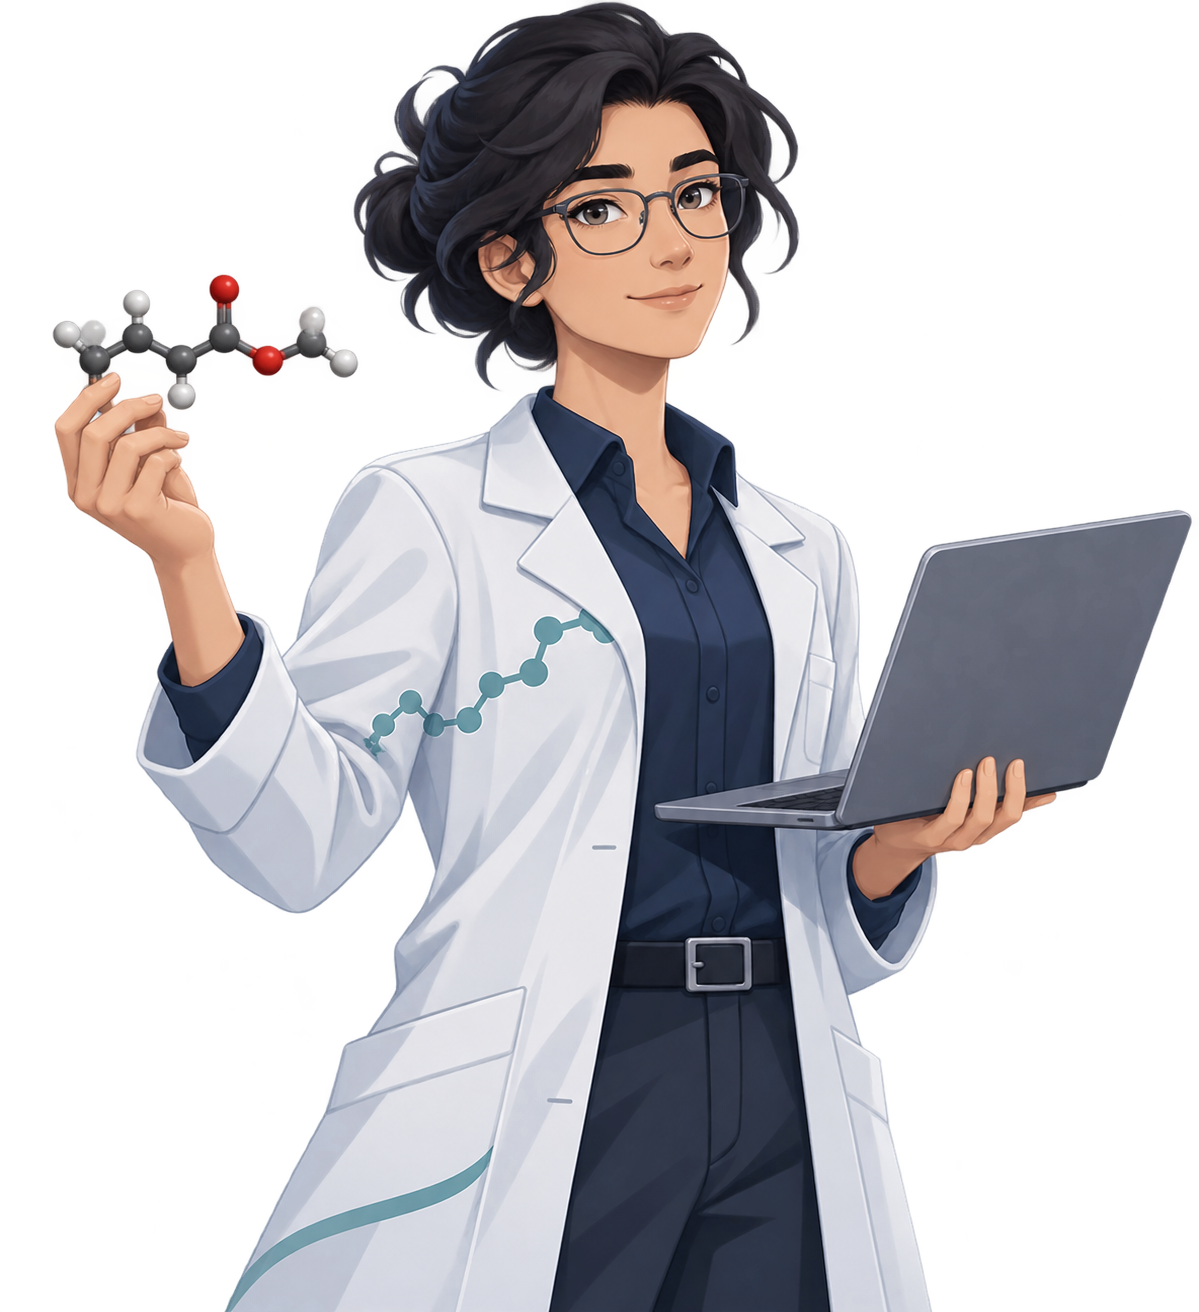
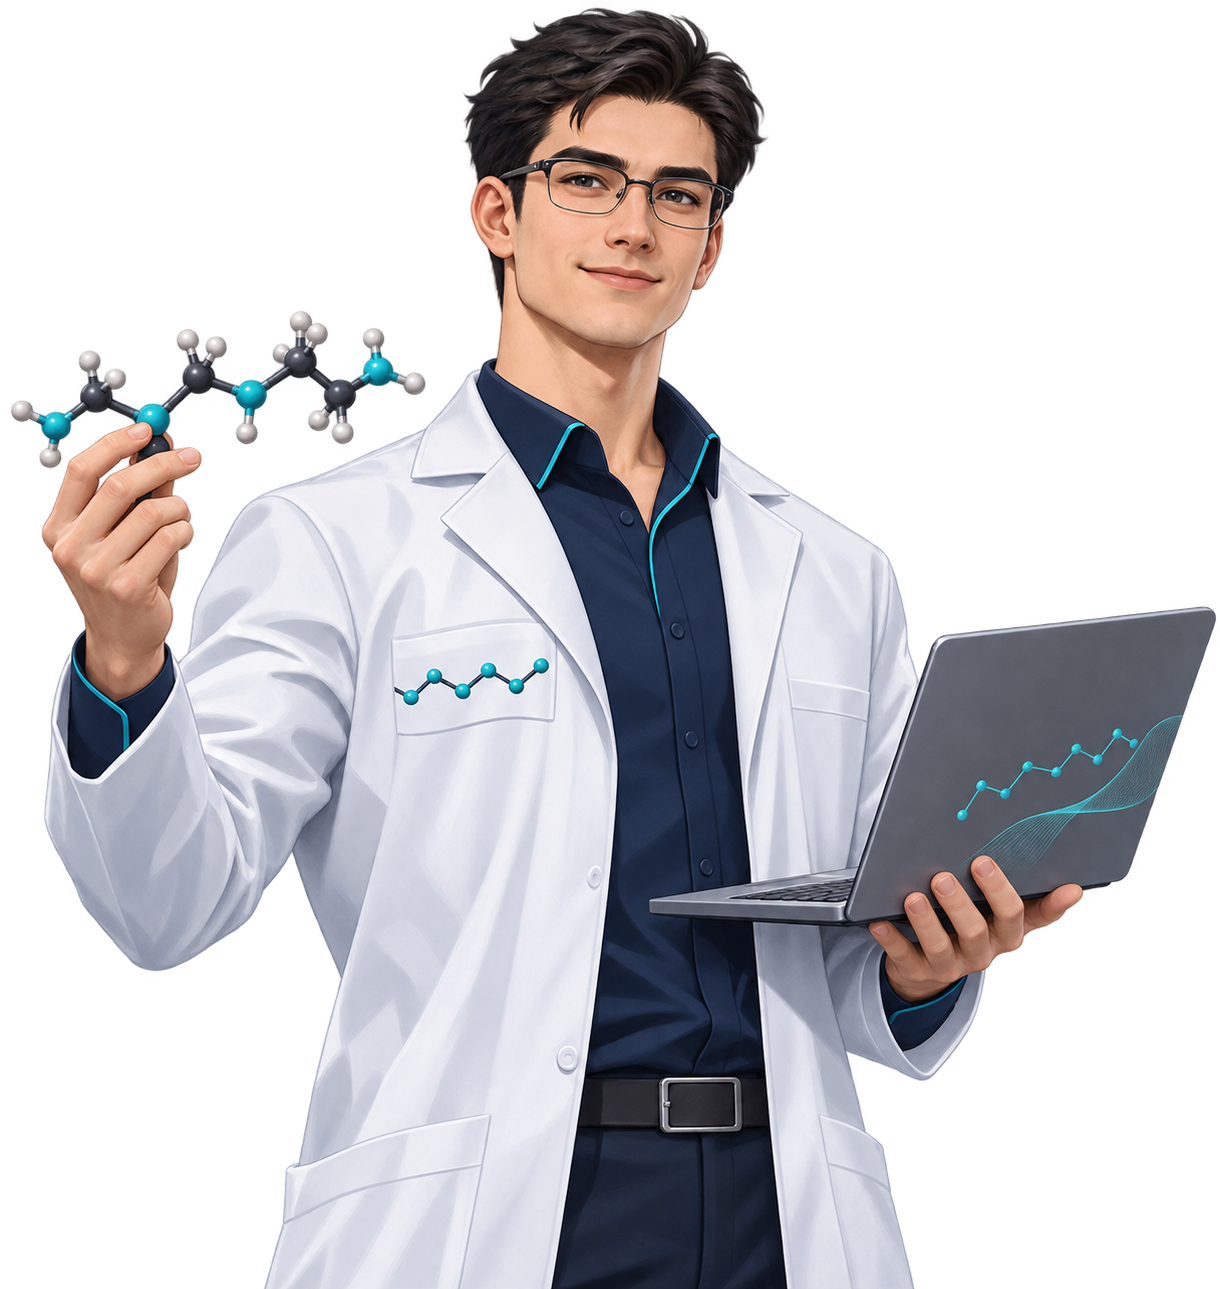
fix: recover Windows startup and refresh scientist mascot

diff --git a/scripts/launcher.py b/scripts/launcher.py
@@ -21,6 +21,7 @@ APP = ROOT / "src" / "jpcb_energy" / "app.py"
 STATE_DIR = ROOT / "local_jobs" / "zhu_molenergy_launcher"
 STATE = STATE_DIR / "zhu_molenergy_launcher_state.json"
 LOG = STATE_DIR / "zhu_molenergy_streamlit.log"
+PREFLIGHT = ROOT / "scripts" / "preflight_app.py"
 
 
 def health(port: int, timeout: float = 0.8) -> bool:
@@ -50,6 +51,13 @@ def listening_pid(port: int) -> int | None:
     return None
 
 
+def process_description(pid: int | None) -> str:
+    if not pid: return "unknown process"
+    completed=subprocess.run(["tasklist","/FI",f"PID eq {pid}","/FO","CSV","/NH"],capture_output=True,text=True,shell=False,check=False)
+    first=completed.stdout.strip().splitlines()
+    return first[0] if first else f"PID {pid}"
+
+
 def load_state() -> dict | None:
     try: return json.loads(STATE.read_text(encoding="utf-8"))
     except (OSError, json.JSONDecodeError): return None
@@ -63,25 +71,81 @@ def free_port(start: int = 8501, attempts: int = 50) -> int:
     raise RuntimeError("No free localhost port was found in the configured range")
 
 
-def start() -> int:
+def preflight() -> tuple[bool, str]:
+    """Render the real app once so Streamlit script errors cannot masquerade as healthy."""
+    try:
+        completed=subprocess.run([str(PYTHON),str(PREFLIGHT),"--startup"],cwd=ROOT,capture_output=True,text=True,shell=False,check=False,timeout=120)
+    except subprocess.TimeoutExpired as exc:
+        return False,f"Application preflight timed out after {exc.timeout} seconds"
+    detail=(completed.stdout+completed.stderr).strip()
+    return completed.returncode==0,detail
+
+
+def log_exception() -> str | None:
+    try: content=LOG.read_text(encoding="utf-8",errors="replace")
+    except OSError: return None
+    markers=("Traceback (most recent call last)","TokenError:","ModuleNotFoundError:","ImportError:","SyntaxError:")
+    return next((marker for marker in markers if marker in content),None)
+
+
+def mark_state(status: str, **extra) -> None:
+    state=load_state() or {}; state.update({"status":status,"updated_at":time.strftime("%Y-%m-%dT%H:%M:%S%z"),**extra})
+    STATE_DIR.mkdir(parents=True,exist_ok=True); STATE.write_text(json.dumps(state,indent=2),encoding="utf-8")
+
+
+def supervise(process: subprocess.Popen, port: int) -> int:
+    print("Launcher remains attached to Streamlit. Press Ctrl+C or use Stop_ZHU_MolEnergy.bat to stop cleanly.")
+    try:
+        code=process.wait(); mark_state("stopped",exit_code=code); return code
+    except KeyboardInterrupt:
+        print("Stopping launcher-owned Streamlit process...")
+        completed=subprocess.run(["taskkill","/PID",str(process.pid),"/T"],capture_output=True,text=True,shell=False,check=False)
+        if completed.returncode and process.poll() is None: process.terminate()
+        try: process.wait(timeout=15)
+        except subprocess.TimeoutExpired: process.kill(); process.wait(timeout=5)
+        mark_state("stopped_by_ctrl_c",exit_code=130); return 130
+
+
+def start(foreground: bool = False) -> int:
     if not PYTHON.is_file():
         print(f"ERROR: Project interpreter not found: {PYTHON}"); return 2
     if not APP.is_file():
         print(f"ERROR: Application entry point not found: {APP}"); return 2
+    if not PREFLIGHT.is_file():
+        print(f"ERROR: Startup preflight not found: {PREFLIGHT}"); return 2
+    ok,detail=preflight()
+    if not ok:
+        print("ERROR: Application preflight failed; Streamlit was not started.")
+        print(detail)
+        return 3
     previous = load_state()
     if previous and previous.get("project_root") == str(ROOT) and pid_alive(int(previous.get("pid", -1))) and health(int(previous.get("port", 0))):
         url=previous["url"]; print(f"ZHU MolEnergy Workbench is already running: {url}"); webbrowser.open(url); return 0
-    port=free_port(); url=f"http://127.0.0.1:{port}"; STATE_DIR.mkdir(parents=True,exist_ok=True)
+    port_8501_pid=listening_pid(8501)
+    if port_8501_pid:
+        print(f"NOTICE: Port 8501 is occupied by {process_description(port_8501_pid)}. The process will not be terminated.")
+        port=free_port(8502)
+    else: port=8501
+    url=f"http://127.0.0.1:{port}"; STATE_DIR.mkdir(parents=True,exist_ok=True)
     command=[str(PYTHON),"-m","streamlit","run",str(APP),"--server.address=127.0.0.1",f"--server.port={port}","--server.headless=true","--browser.gatherUsageStats=false","--server.fileWatcherType=none"]
-    creationflags=getattr(subprocess,"CREATE_NEW_PROCESS_GROUP",0)|getattr(subprocess,"DETACHED_PROCESS",0)
+    creationflags=0 if foreground else getattr(subprocess,"CREATE_NEW_PROCESS_GROUP",0)|getattr(subprocess,"DETACHED_PROCESS",0)
+    LOG.write_text(f"ZHU MolEnergy Workbench startup log\nStarted: {time.strftime('%Y-%m-%dT%H:%M:%S%z')}\nPreflight: passed\nCommand: {' '.join(command)}\n\n",encoding="utf-8")
     with LOG.open("a",encoding="utf-8") as log:
         process=subprocess.Popen(command,cwd=ROOT,stdin=subprocess.DEVNULL,stdout=log,stderr=subprocess.STDOUT,creationflags=creationflags,shell=False,close_fds=True)
-    state={"pid":process.pid,"bootstrap_pid":process.pid,"port":port,"url":url,"project_root":str(ROOT),"python":str(PYTHON),"command":command,"started_at":time.strftime("%Y-%m-%dT%H:%M:%S%z"),"log":str(LOG)}; STATE.write_text(json.dumps(state,indent=2),encoding="utf-8")
+    state={"pid":process.pid,"bootstrap_pid":process.pid,"port":port,"url":url,"project_root":str(ROOT),"python":str(PYTHON),"command":command,"foreground":foreground,"status":"starting","started_at":time.strftime("%Y-%m-%dT%H:%M:%S%z"),"log":str(LOG)}; STATE.write_text(json.dumps(state,indent=2),encoding="utf-8")
     print(f"Starting ZHU MolEnergy Workbench at {url}")
     for _ in range(90):
         if health(port):
             state["pid"] = listening_pid(port) or process.pid; STATE.write_text(json.dumps(state,indent=2),encoding="utf-8")
-            print(f"Ready: {url} (server PID {state['pid']})"); webbrowser.open(url); return 0
+            webbrowser.open(url); time.sleep(2.0)
+            marker=log_exception()
+            if marker:
+                print(f"ERROR: Application log contains {marker}. See {LOG}")
+                subprocess.run(["taskkill","/PID",str(state["pid"]),"/T"],capture_output=True,text=True,shell=False,check=False)
+                mark_state("failed_application_render",error_marker=marker); return 3
+            state["status"]="ready"; STATE.write_text(json.dumps(state,indent=2),encoding="utf-8")
+            print(f"Ready: {url} (server PID {state['pid']})")
+            return supervise(process,port) if foreground else 0
         if process.poll() is not None: print(f"ERROR: Streamlit exited with code {process.returncode}. See {LOG}"); return 3
         time.sleep(0.5)
     process.terminate(); print(f"ERROR: Startup timed out. See {LOG}"); return 4
@@ -102,4 +166,5 @@ def diagnose() -> int:
 
 
 if __name__ == "__main__":
-    parser=argparse.ArgumentParser(); parser.add_argument("action",nargs="?",choices=["start","stop","diagnose"],default="start"); arguments=parser.parse_args(); raise SystemExit({"start":start,"stop":stop,"diagnose":diagnose}[arguments.action]())
+    parser=argparse.ArgumentParser(); parser.add_argument("action",nargs="?",choices=["start","stop","diagnose"],default="start"); parser.add_argument("--foreground",action="store_true",help="Keep the launcher attached so Ctrl+C and console close stop Streamlit")
+    arguments=parser.parse_args(); raise SystemExit(start(arguments.foreground) if arguments.action=="start" else {"stop":stop,"diagnose":diagnose}[arguments.action]())

diff --git a/src/jpcb_energy/app.py b/src/jpcb_energy/app.py
@@ -3,6 +3,7 @@
 from __future__ import annotations
 
 import json
+from functools import lru_cache
 from pathlib import Path
 from uuid import uuid4
 
@@ -53,12 +54,12 @@ st.markdown("""<style>
 </style>""", unsafe_allow_html=True)
 
 
-@st.cache_resource
+@lru_cache(maxsize=1)
 def model_registry():
     return discover_models(ROOT)
 
 
-@st.cache_data(show_spinner=False)
+@lru_cache(maxsize=8)
 def cleaning_detection(path: str, mtime: float, config_values: tuple[float, ...]) -> pd.DataFrame:
     del mtime
     config=CleaningConfig(*config_values)
@@ -109,6 +110,12 @@ def copy_button(label: str, value: str, key: str) -> None:
 
 def citation_copy_button() -> None:
     copy_button("Cite This Work", ACS_CITATION, "cite_work")
+
+
+def empty_state(message: str) -> None:
+    text,image=st.columns([.78,.22],vertical_alignment="center")
+    text.info(message)
+    if MASCOT_PATH.is_file(): image.image(str(MASCOT_PATH),use_container_width=True)
 
 
 st.sidebar.markdown("## ⚛ ZHU MolEnergy"); st.sidebar.caption(PRODUCT_SUBTITLE); st.sidebar.markdown(f"<div class='paper-source'><b>Zhu et al.</b> <i>J. Phys. Chem. B</i> <b>2026</b>, <b>{ARTICLE_VOLUME}</b> ({ARTICLE_ISSUE}), {ARTICLE_PAGES}.<br><a href='{ARTICLE_URL}' target='_blank'>DOI: {ARTICLE_DOI}</a></div>",unsafe_allow_html=True)
@@ -189,7 +196,8 @@ elif page == "Molecular Explorer":
                 st.caption("Drag to rotate · wheel/pinch to zoom · double-click or use the camera reset control to auto-center and fit.")
                 one,two,three,four=st.columns(4); one.download_button("SDF",conformer_sdf(molecules[selected]),"conformer.sdf","chemical/x-mdl-sdfile"); two.download_button("XYZ",conformer_xyz(molecules[selected]),"conformer.xyz","chemical/x-xyz"); three.download_button("MOL",conformer_mol(molecules[selected]),"conformer.mol","chemical/x-mdl-molfile"); four.download_button("PNG view",conformer_png_bytes(molecules[selected]),"conformer_3d.png","image/png")
                 st.warning(infos[selected]["geometry_role"])
-        else: display.info("Choose reproducible embedding settings and generate one or more conformers.")
+        else:
+            with display: empty_state("Choose reproducible embedding settings and generate one or more conformers.")
     with tabs[2]:
         explicit=st.text_input("Optional existing xtb.exe path",key="xtb_path"); installation=detect_xtb(explicit or None)
         if installation.available: st.success(f"Verified xTB: {installation.executable} · {installation.version}")
@@ -258,7 +266,7 @@ elif page == "Model Training":
 elif page == "Data Quality":
     st.warning("Local-owner scientific audit. Record-level paths and internal review decisions are excluded from the public GitHub tree.")
     audit_path=QC_ROOT/"full_record_audit.csv"; summary_path=QC_ROOT/"qc_summary.json"
-    if not audit_path.is_file(): st.info("Run scripts/run_dft_qc.py with the project interpreter to build the read-only audit. No raw ORCA file is changed.")
+    if not audit_path.is_file(): empty_state("Run scripts/run_dft_qc.py with the project interpreter to build the read-only audit. No raw ORCA file is changed.")
     else:
         frame=pd.read_csv(audit_path); summary=json.loads(summary_path.read_text(encoding="utf-8")); columns=st.columns(4); columns[0].metric("Audited records",summary["records"]); columns[1].metric("Passed automated checks",summary["by_status"].get("passed_automated_checks",summary["by_status"].get("verified",0))); columns[2].metric("Needs human review",summary["by_status"].get("needs_review",0)); columns[3].metric("Invalid / unmatched",summary["by_status"].get("invalid_calculation",0)+summary["by_status"].get("unmatched",0))
         f1,f2,f3=st.columns(3); statuses=f1.multiselect("QC status",sorted(frame.qc_status.unique()),default=sorted(frame.qc_status.unique())); environments=f2.multiselect("Environment",sorted(frame.environment.unique()),default=sorted(frame.environment.unique())); search=f3.text_input("Record / molecule search")
@@ -273,7 +281,7 @@ elif page == "Data Quality":
 elif page == "Data Cleaning & Outlier Removal":
     st.warning("This module excludes records only from a reversible working copy. It never deletes source rows, edits ORCA files, or overwrites published models.")
     audit_path=QC_ROOT/"full_record_audit.csv"
-    if not audit_path.is_file(): st.info("Run scripts/run_dft_qc.py first to build the read-only audit.")
+    if not audit_path.is_file(): empty_state("Run scripts/run_dft_qc.py first to build the read-only audit.")
     else:
         with st.expander("Detection thresholds",expanded=False):
             a,b,c=st.columns(3); iqr=a.number_input("IQR multiplier",1.0,5.0,1.5,.1); z=b.number_input("Z-score threshold",2.0,8.0,3.0,.1); mad=c.number_input("Modified Z-score (MAD)",2.0,8.0,3.5,.1)

diff --git a/tests/test_v130_windows_recovery.py b/tests/test_v130_windows_recovery.py
@@ -1,0 +1,69 @@
+"""Regression coverage for the v1.3.0 Windows startup recovery."""
+
+from __future__ import annotations
+
+import importlib.util
+import socket
+import sys
+from pathlib import Path
+
+import streamlit
+from PIL import Image
+
+
+ROOT=Path(__file__).parents[1]
+
+
+def _launcher():
+    spec=importlib.util.spec_from_file_location("zhu_launcher",ROOT/"scripts"/"launcher.py")
+    module=importlib.util.module_from_spec(spec); spec.loader.exec_module(module)
+    return module
+
+
+def test_python_streamlit_and_application_entry_integrity():
+    assert Path(sys.executable).is_file()
+    assert tuple(map(int,streamlit.__version__.split(".")[:2])) >= (1,45)
+    source=(ROOT/"src"/"jpcb_energy"/"app.py").read_text(encoding="utf-8")
+    compile(source,str(ROOT/"src"/"jpcb_energy"/"app.py"),"exec")
+    assert "st.set_page_config" in source and "PRODUCT_NAME" in source
+
+
+def test_cache_strategy_avoids_streamlit_source_hashing_regression():
+    source=(ROOT/"src"/"jpcb_energy"/"app.py").read_text(encoding="utf-8")
+    assert "@st.cache_resource" not in source and "@st.cache_data" not in source
+    assert "@lru_cache(maxsize=1)" in source and "@lru_cache(maxsize=8)" in source
+
+
+def test_application_preflight_renders_all_acceptance_pages():
+    spec=importlib.util.spec_from_file_location("zhu_preflight",ROOT/"scripts"/"preflight_app.py")
+    module=importlib.util.module_from_spec(spec); spec.loader.exec_module(module)
+    for page in ["Predict","Molecular Explorer","Data Cleaning & Outlier Removal","About & Citation"]:
+        result=module.render(page)
+        assert result["passed"],result
+
+
+def test_port_conflict_selection_and_error_log_detection(tmp_path):
+    launcher=_launcher()
+    with socket.socket(socket.AF_INET,socket.SOCK_STREAM) as occupied:
+        occupied.bind(("127.0.0.1",0)); port=occupied.getsockname()[1]
+        assert launcher.free_port(port,attempts=10) != port
+    launcher.LOG=tmp_path/"startup.log"; launcher.LOG.write_text("TokenError: EOF in multi-line string",encoding="utf-8")
+    assert launcher.log_exception()=="TokenError:"
+
+
+def test_local_resource_paths_startup_scripts_and_transparent_mascot():
+    start=(ROOT/"Start_ZHU_MolEnergy.bat").read_text(encoding="utf-8")
+    installer=(ROOT/"Install_ZHU_MolEnergy_Desktop_Shortcut.ps1").read_text(encoding="utf-8")
+    assert ".venv\\Scripts\\python.exe" in start and "launcher.py" in start and "--foreground" in start
+    assert "Start_ZHU_MolEnergy.bat" in installer and "ZHU MolEnergy Workbench.lnk" in installer
+    asset=ROOT/"assets"/"zhu_molenergy_scientist.png"; assert asset.is_file()
+    with Image.open(asset) as image:
+        assert image.format=="PNG" and image.mode=="RGBA"
+        assert image.getextrema()[3][0]==0 and image.width>=1000 and image.height>=1000
+
+
+def test_launcher_shutdown_and_duplicate_detection_primitives():
+    launcher=_launcher()
+    assert launcher.pid_alive(__import__("os").getpid())
+    assert launcher.health(65534,timeout=.05) is False
+    assert "taskkill" in (ROOT/"scripts"/"launcher.py").read_text(encoding="utf-8")

diff --git a/scripts/preflight_app.py b/scripts/preflight_app.py
@@ -1,0 +1,34 @@
+#!/usr/bin/env python
+"""Render key pages with Streamlit's test runtime before launching the server."""
+
+from __future__ import annotations
+
+import argparse
+import json
+from pathlib import Path
+
+from streamlit.testing.v1 import AppTest
+
+
+ROOT=Path(__file__).resolve().parents[1]
+APP=ROOT/"src"/"jpcb_energy"/"app.py"
+
+
+def render(page: str) -> dict:
+    test=AppTest.from_file(str(APP),default_timeout=60)
+    test.query_params["page"]=page
+    test.run()
+    exceptions=[str(item.value) for item in test.exception]
+    return {"page":page,"exceptions":exceptions,"passed":not exceptions}
+
+
+def main() -> int:
+    parser=argparse.ArgumentParser(); parser.add_argument("--startup",action="store_true"); arguments=parser.parse_args()
+    pages=["Predict"] if arguments.startup else ["Predict","Molecular Explorer","Data Cleaning & Outlier Removal","About & Citation"]
+    results=[render(page) for page in pages]
+    report={"application":str(APP),"pages":results,"passed":all(result["passed"] for result in results)}
+    print(json.dumps(report,indent=2))
+    return 0 if report["passed"] else 1
+
+
+if __name__=="__main__": raise SystemExit(main())

diff --git a/tests/test_v130_cleaning_citation_visuals.py b/tests/test_v130_cleaning_citation_visuals.py
@@ -59,3 +59,15 @@ def test_cleaning_page_renders_without_exception():
         assert dict((metric.label,metric.value) for metric in app.metric)["Excluded"]=="0"
     finally:
         if created: audit.unlink()
+
+
+def test_windows_startup_preflight_and_male_mascot_asset():
+    from pathlib import Path
+    from PIL import Image
+    root=Path(__file__).parents[1]
+    start=(root/"Start_ZHU_MolEnergy.bat").read_text(encoding="utf-8")
+    launcher=(root/"scripts"/"launcher.py").read_text(encoding="utf-8")
+    assert ".venv\\Scripts\\python.exe" in start and "launcher.py" in start
+    assert "preflight_app.py" in launcher and "def free_port(" in launcher
+    with Image.open(root/"assets"/"zhu_molenergy_scientist.png") as image:
+        assert image.mode=="RGBA" and image.getextrema()[3][0]==0 and image.width>=1000 and image.height>=1000

diff --git a/README.md b/README.md
@@ -43,7 +43,7 @@ The enhanced comparison uses 207 protocol-consistent molecules in every environm
 
 ## Windows installation and GUI
 
-For the existing validated installation, double-click `Launch_ZHU_MolEnergy.bat`; it invokes the project `.venv` directly and does not rely on `python` or `py` on PATH. To create a per-user desktop shortcut named **ZHU MolEnergy Workbench**, double-click `Install_ZHU_MolEnergy_Desktop_Shortcut.bat`. `Stop_ZHU_MolEnergy.bat` stops only the server PID recorded by this launcher. The previous JPCB-named batch files remain compatibility aliases.
+For the existing validated installation, double-click `Start_ZHU_MolEnergy.bat`; it validates and invokes the project `.venv` directly, performs an application-render preflight, chooses a free localhost port starting at 8501, opens the browser, and remains attached to the service without relying on `python` or `py` on PATH. To create a per-user desktop shortcut named **ZHU MolEnergy Workbench**, double-click `Install_ZHU_MolEnergy_Desktop_Shortcut.bat`. Pressing Ctrl+C or closing the shared launcher console stops the attached service; `Stop_ZHU_MolEnergy.bat` is the clean manual alternative and targets only the PID recorded by this launcher. `Launch_ZHU_MolEnergy.bat` and the previous JPCB-named batch files remain compatibility aliases.
 
 For a clean installation, install 64-bit Python 3.10-3.13, double-click `install_windows.bat`, then use the launcher. The server binds to `127.0.0.1`, disables usage telemetry, reuses a healthy launcher-owned instance, and chooses a free local port if 8501 is occupied.
 

diff --git a/docs/INSTALL_WINDOWS.md b/docs/INSTALL_WINDOWS.md
@@ -2,7 +2,7 @@
 
 Use 64-bit Windows 10 or 11 and Python 3.10-3.13. Download Python from python.org and enable **Add Python to PATH**. Double-click `install_windows.bat`; it checks the Python version, creates project-local `.venv`, installs pinned CPU dependencies, and installs the package.
 
-Double-click `Launch_ZHU_MolEnergy.bat` to open ZHU MolEnergy Workbench. It invokes `.venv\Scripts\python.exe` directly, binds to `127.0.0.1`, selects a free port, waits for Streamlit health, and then opens the browser. After `.venv` exists, system `python` and `py` commands are not required. Paths containing spaces and non-ASCII characters are supported.
+Double-click `Start_ZHU_MolEnergy.bat` to open ZHU MolEnergy Workbench. It invokes `.venv\Scripts\python.exe` directly, renders a real application preflight, binds to `127.0.0.1`, selects a free port, waits for Streamlit health, and then opens the browser. After `.venv` exists, system `python` and `py` commands are not required. Paths containing spaces and non-ASCII characters are supported. `Launch_ZHU_MolEnergy.bat` remains a compatibility alias.
 
 Double-click `Install_ZHU_MolEnergy_Desktop_Shortcut.bat` to create the per-user shortcut **ZHU MolEnergy Workbench** without administrator rights. The installer removes the old project-created JPCB shortcut only after confirming that its target belongs to this project. `Stop_ZHU_MolEnergy.bat` targets only the PID recorded by this launcher.
 

diff --git a/docs/WORKBENCH_V1.2.md b/docs/WORKBENCH_V1.2.md
@@ -2,7 +2,7 @@
 
 ## Desktop launch
 
-`Launch_ZHU_MolEnergy.bat` uses the project `.venv` directly and binds to localhost. `Install_ZHU_MolEnergy_Desktop_Shortcut.bat` creates the **ZHU MolEnergy Workbench** per-user shortcut without administrator rights. `Stop_ZHU_MolEnergy.bat` reads launcher state and targets only its recorded PID. The JPCB-named scripts remain compatibility aliases.
+`Start_ZHU_MolEnergy.bat` validates the existing project `.venv`, performs a Streamlit application-render preflight, selects a free localhost port and opens the browser. `Install_ZHU_MolEnergy_Desktop_Shortcut.bat` creates the **ZHU MolEnergy Workbench** per-user shortcut without administrator rights. `Stop_ZHU_MolEnergy.bat` reads launcher state and targets only its recorded PID. `Launch_ZHU_MolEnergy.bat` and the JPCB-named scripts remain compatibility aliases.
 
 ## Molecular viewers
 
